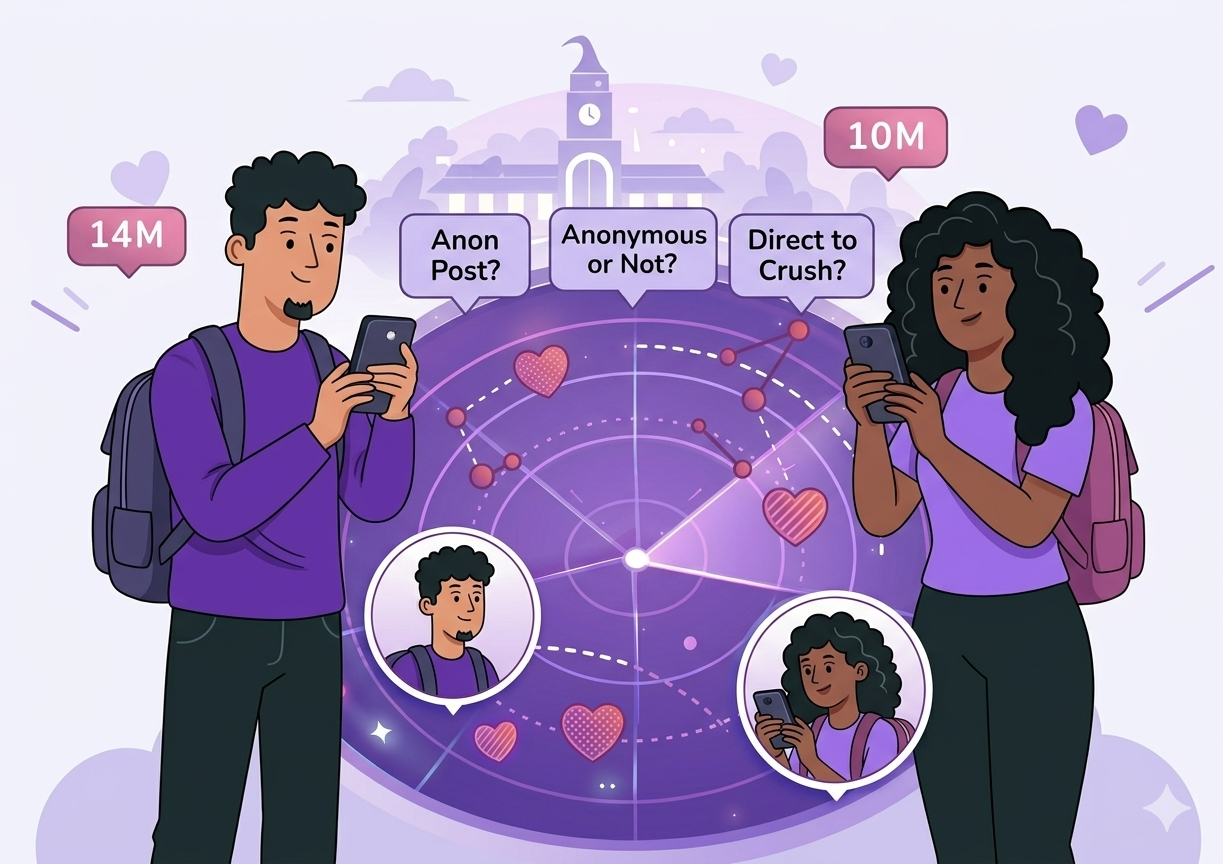
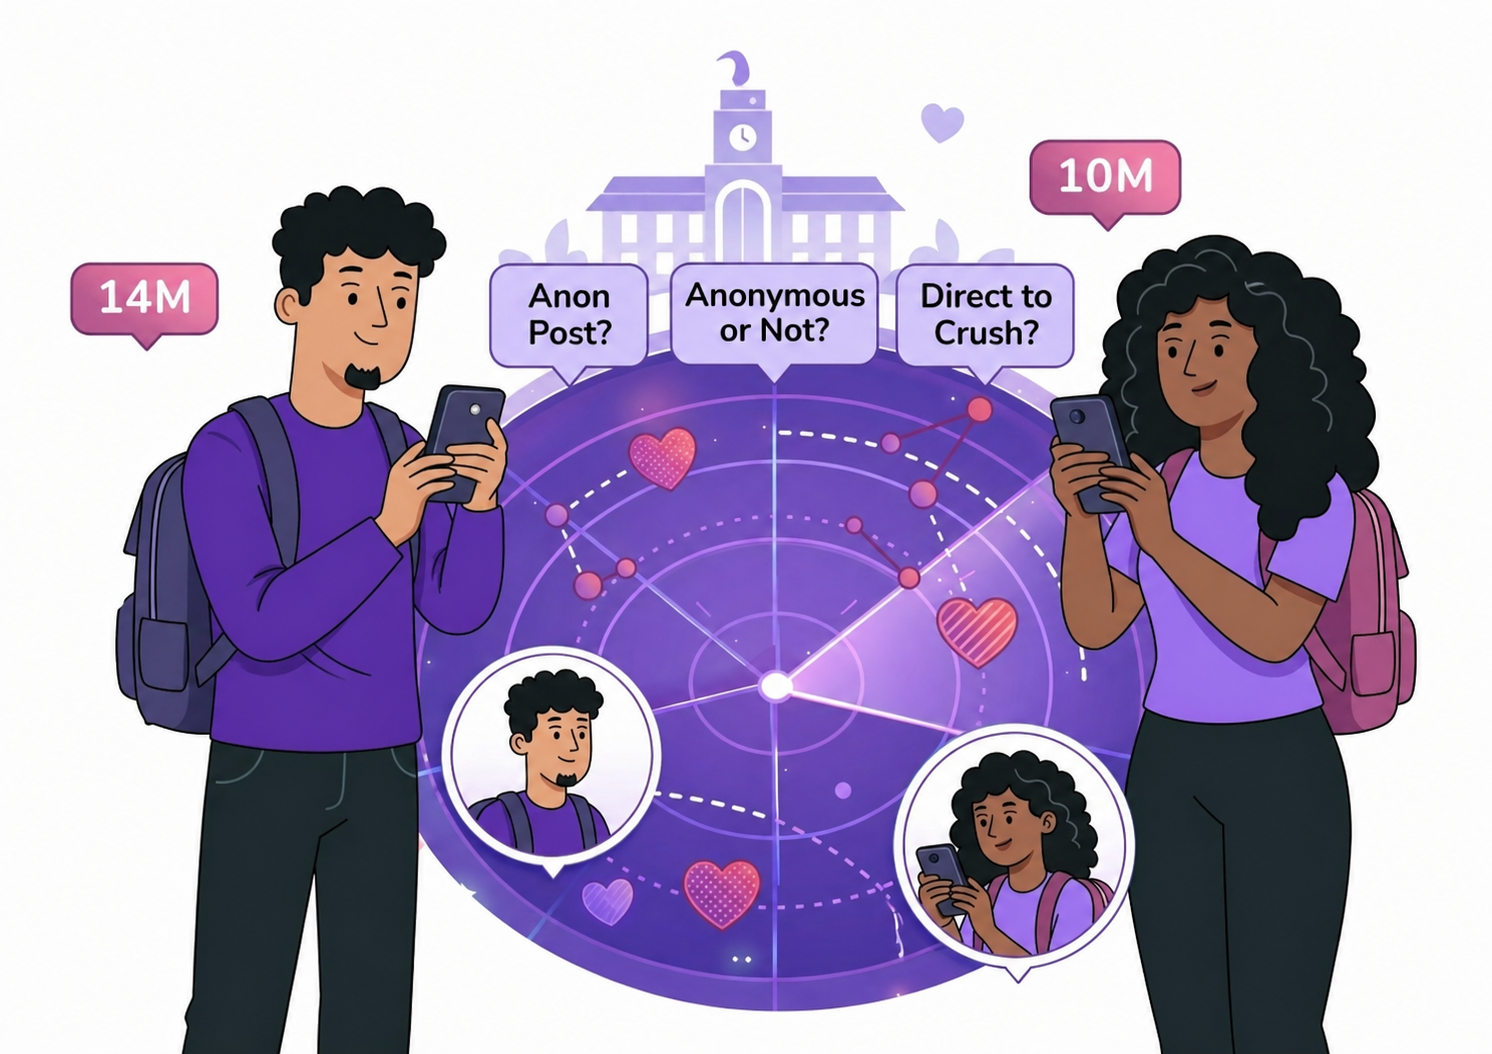
fixed private account

diff --git a/lib/core/widgets/common/private_account.dart b/lib/core/widgets/common/private_account.dart
@@ -1,11 +1,46 @@
 
 import 'package:flutter/cupertino.dart';
+import 'package:flutter/material.dart';
 
-class PrivateAccountPage extends StatelessWidget {
-  const PrivateAccountPage({super.key});
+class PrivateProfilePage extends StatelessWidget {
+
+  const PrivateProfilePage({super.key,});
 
   @override
   Widget build(BuildContext context) {
-    return const Placeholder();
+    return Scaffold(
+      backgroundColor: Colors.white, // white background
+      appBar: AppBar(
+        foregroundColor: Colors.white,
+        elevation: 0,
+      ),
+      body: Center(
+        child: Column(
+          mainAxisAlignment: MainAxisAlignment.center,
+          children: [
+
+
+            Icon(Icons.lock,
+            color: Colors.grey,
+              size: 50,
+            ),
+
+            const SizedBox(height: 10),
+
+
+            const Text(
+              "This account is private",
+              style: TextStyle(
+                fontSize: 18,
+                fontWeight: FontWeight.bold,
+                color: CupertinoColors.systemGrey,
+              ),
+            ),
+
+          ],
+        ),
+      ),
+    );
   }
 }
+

diff --git a/lib/presentation/pages/other_user_profile.dart b/lib/presentation/pages/other_user_profile.dart
@@ -99,16 +99,7 @@ class OtherUserProfilePage extends StatelessWidget {
                 // --- CHECK PRIVACY SETTINGS ---
                 if (user.privacySettings.isProfilePrivate) {
                   return PrivateProfilePage(
-                    username: user.name,
-                    avatarUrl: user.profileImageUrl,
-                    onMessagePressed: () {
-                      Navigator.push(
-                        context,
-                        CupertinoPageRoute(
-                          builder: (_) => SendPostPage(recipient: user),
-                        ),
-                      );
-                    },
+
                   );
                 }
 
